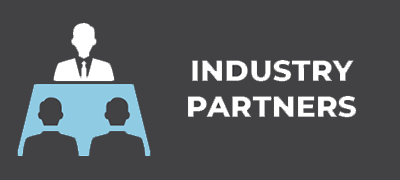
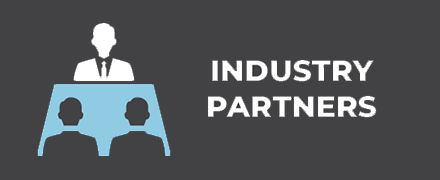
Adjusted CSO

Changed region(s): [[0.03, 0.1111, 0.39, 0.8889], [0.45, 0.5278, 0.9, 0.6667], [0.48, 0.3333, 0.9, 0.4722]]

diff --git a/_assets/css/index.scss b/_assets/css/index.scss
@@ -486,7 +486,7 @@ hr.footer-border{
 }
 
 .learnblock{
-  width: 400px;
+  width: 440px;
   height: 190px;
   margin: 10px;
   display: block;
